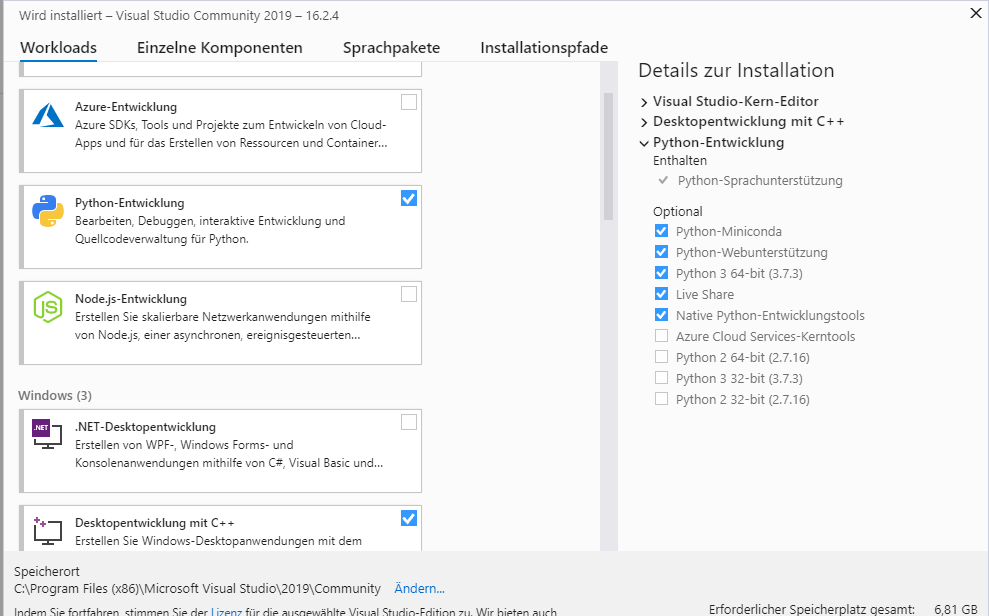
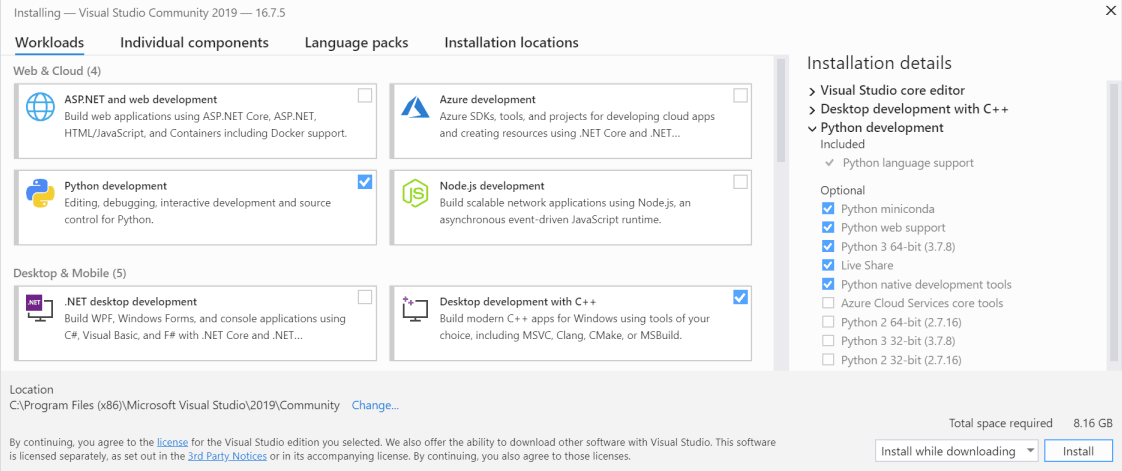
#2 screenshot now in english

diff --git a/docs/web/docs/Installing/Windows_Build.md b/docs/web/docs/Installing/Windows_Build.md
@@ -12,10 +12,10 @@ may also [download pre-build Windows binaries](../Downloads.md).
 
 ## Recommended Windows setup
 
-- Download [Visual C++ Community Edition](https://www.visualstudio.com/vs/community/)
+- Download [Visual Studio Community Edition](https://www.visualstudio.com/vs/community/)
   - Start the installer and select:
-    - Python Development (including native tools)
-    - C++ for desktop
+    - Python development (including native tools)
+    - Desktop development with C++
 
 ![](../images/VSInstall.png)
 
